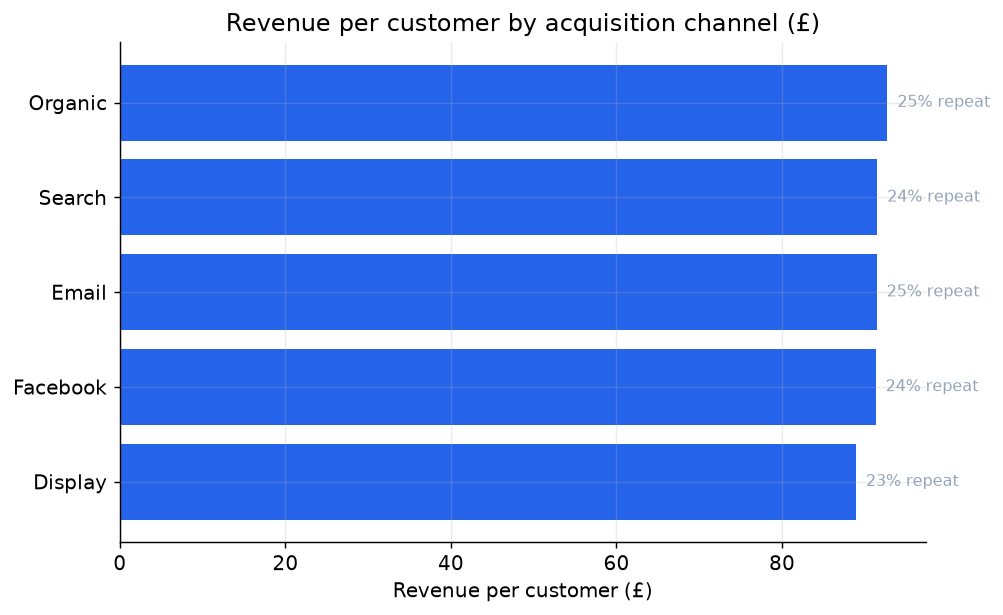
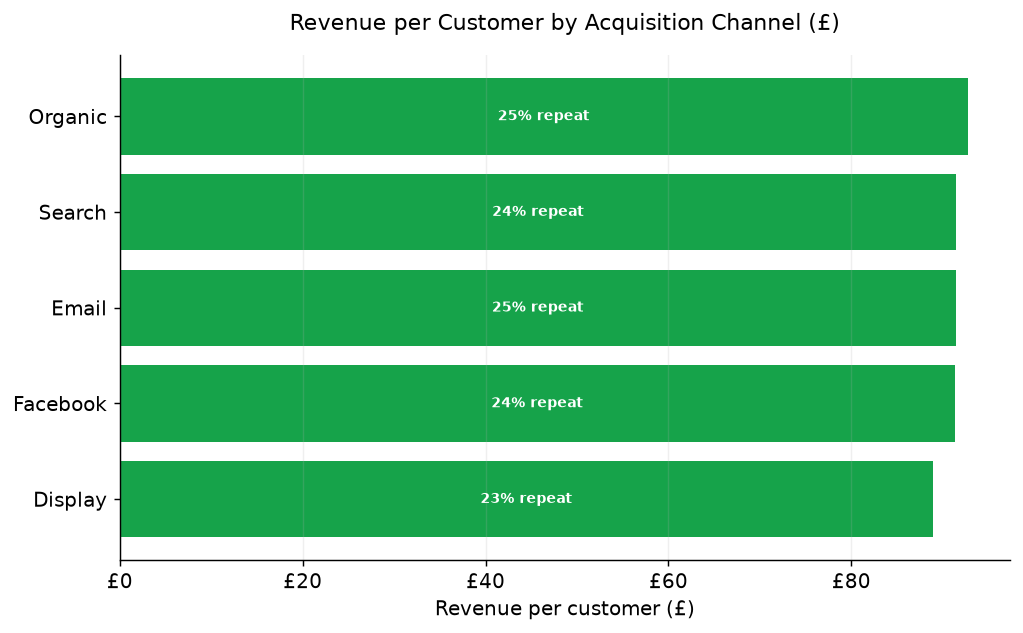
update README with AI disclaimer, fix charts: dual bar, green teal theme, no floating labels

diff --git a/notebooks/generate_insights.py b/notebooks/generate_insights.py
@@ -13,6 +13,7 @@ Usage:
 import argparse
 from pathlib import Path
 
+import numpy as np
 import pandas as pd
 import matplotlib.pyplot as plt
 from google.cloud import bigquery
@@ -20,7 +21,12 @@ from google.cloud import bigquery
 IMAGES_DIR = Path(__file__).resolve().parent.parent / "images"
 IMAGES_DIR.mkdir(exist_ok=True)
 
-# A clean, consistent look across the three charts.
+# Consistent green and teal palette across all charts.
+GREEN = "#16A34A"   # gross margin bars
+TEAL  = "#0D9488"   # revenue bars and line charts
+LABEL = "#FFFFFF"   # text on coloured bars
+MUTED = "#6B7280"   # secondary annotation text
+
 plt.rcParams.update({
     "figure.dpi": 130,
     "savefig.bbox": "tight",
@@ -28,10 +34,9 @@ plt.rcParams.update({
     "axes.spines.top": False,
     "axes.spines.right": False,
     "axes.grid": True,
-    "grid.alpha": 0.25,
+    "grid.alpha": 0.2,
+    "axes.grid.axis": "x",
 })
-ACCENT = "#2563eb"
-MUTED = "#94a3b8"
 
 
 def load(client: bigquery.Client, dataset: str, table: str) -> pd.DataFrame:
@@ -39,13 +44,70 @@ def load(client: bigquery.Client, dataset: str, table: str) -> pd.DataFrame:
 
 
 def chart_category_margin(df: pd.DataFrame) -> None:
-    top = df.sort_values("gross_margin", ascending=False).head(10).iloc[::-1]
-    fig, ax = plt.subplots(figsize=(8, 5))
-    ax.barh(top["category"], top["gross_margin"], color=ACCENT)
-    ax.set_title("Top 10 categories by gross margin (£)")
-    ax.set_xlabel("Gross margin (£)")
-    for y, (m, pct) in enumerate(zip(top["gross_margin"], top["gross_margin_pct"])):
-        ax.text(m, y, f"  {pct:.0%}", va="center", fontsize=9, color=MUTED)
+    """
+    Clustered horizontal bar chart: gross margin (green) and revenue (teal)
+    side by side for the top 10 categories by gross margin value.
+    Margin percentage is shown as a label inside the green bar so it
+    never floats outside the chart area.
+    """
+    # Aggregate across departments (Men/Women) so each category appears once.
+    # Recalculate gross_margin_pct from the combined totals.
+    df_agg = (
+        df.groupby("category", as_index=False)
+        .agg(gross_revenue=("gross_revenue", "sum"), gross_margin=("gross_margin", "sum"))
+    )
+    df_agg["gross_margin_pct"] = df_agg["gross_margin"] / df_agg["gross_revenue"]
+
+    top = (
+        df_agg.sort_values("gross_margin", ascending=False)
+        .head(10)
+        .iloc[::-1]
+        .reset_index(drop=True)
+    )
+
+    bar_h = 0.38
+    y = np.arange(len(top))
+
+    fig, ax = plt.subplots(figsize=(9, 6))
+
+    # Revenue bars (teal, upper slot)
+    ax.barh(
+        y + bar_h / 2,
+        top["gross_revenue"],
+        height=bar_h,
+        color=TEAL,
+        label="Gross revenue (£)",
+    )
+
+    # Gross margin bars (green, lower slot)
+    gm_bars = ax.barh(
+        y - bar_h / 2,
+        top["gross_margin"],
+        height=bar_h,
+        color=GREEN,
+        label="Gross margin (£)",
+    )
+
+    # Margin percentage label placed at the midpoint of each green bar.
+    # This avoids the floating label issue caused by positioning at bar end.
+    for bar, pct in zip(gm_bars, top["gross_margin_pct"]):
+        w  = bar.get_width()
+        cx = w * 0.5
+        cy = bar.get_y() + bar.get_height() / 2
+        ax.text(
+            cx, cy, f"{pct:.0%}",
+            ha="center", va="center",
+            fontsize=8, color=LABEL, fontweight="bold",
+        )
+
+    ax.set_yticks(y)
+    ax.set_yticklabels(top["category"], fontsize=10)
+    ax.set_xlabel("Value (£)")
+    ax.set_title("Top 10 Categories by Gross Margin (£)", pad=14, fontsize=12)
+    ax.legend(loc="lower right", framealpha=0.9)
+    ax.xaxis.set_major_formatter(plt.FuncFormatter(lambda v, _: f"£{v:,.0f}"))
+
+    fig.tight_layout()
     fig.savefig(IMAGES_DIR / "category_margin.png")
     plt.close(fig)
 
@@ -53,11 +115,17 @@ def chart_category_margin(df: pd.DataFrame) -> None:
 def chart_retention(df: pd.DataFrame) -> None:
     df = df.sort_values("cohort_month")
     fig, ax = plt.subplots(figsize=(9, 5))
-    ax.plot(df["cohort_month"], df["repeat_purchase_rate"], color=ACCENT, marker="o", ms=3)
-    ax.set_title("Repeat-purchase rate by acquisition cohort")
+    ax.plot(
+        df["cohort_month"], df["repeat_purchase_rate"],
+        color=TEAL, marker="o", ms=4, linewidth=2,
+    )
+    ax.fill_between(df["cohort_month"], df["repeat_purchase_rate"],
+                    alpha=0.1, color=TEAL)
+    ax.set_title("Repeat Purchase Rate by Acquisition Cohort", pad=14, fontsize=12)
     ax.set_ylabel("Share of customers who ordered again")
     ax.yaxis.set_major_formatter(plt.FuncFormatter(lambda v, _: f"{v:.0%}"))
     fig.autofmt_xdate()
+    fig.tight_layout()
     fig.savefig(IMAGES_DIR / "retention_cohorts.png")
     plt.close(fig)
 
@@ -65,32 +133,46 @@ def chart_retention(df: pd.DataFrame) -> None:
 def chart_channel(df: pd.DataFrame) -> None:
     df = df.sort_values("revenue_per_customer", ascending=True)
     fig, ax = plt.subplots(figsize=(8, 5))
-    ax.barh(df["traffic_source"], df["revenue_per_customer"], color=ACCENT)
-    ax.set_title("Revenue per customer by acquisition channel (£)")
+    bars = ax.barh(df["traffic_source"], df["revenue_per_customer"], color=GREEN)
+    ax.set_title("Revenue per Customer by Acquisition Channel (£)", pad=14, fontsize=12)
     ax.set_xlabel("Revenue per customer (£)")
-    for y, (rev, rep) in enumerate(zip(df["revenue_per_customer"], df["repeat_purchase_rate"])):
-        ax.text(rev, y, f"  {rep:.0%} repeat", va="center", fontsize=9, color=MUTED)
+    ax.xaxis.set_major_formatter(plt.FuncFormatter(lambda v, _: f"£{v:,.0f}"))
+
+    # Repeat purchase rate label inside each bar
+    for bar, rep in zip(bars, df["repeat_purchase_rate"]):
+        w  = bar.get_width()
+        cx = w * 0.5
+        cy = bar.get_y() + bar.get_height() / 2
+        ax.text(
+            cx, cy, f"{rep:.0%} repeat",
+            ha="center", va="center",
+            fontsize=8, color=LABEL, fontweight="bold",
+        )
+
+    fig.tight_layout()
     fig.savefig(IMAGES_DIR / "channel_value.png")
     plt.close(fig)
 
 
-def headline_figures(cat: pd.DataFrame, ret: pd.DataFrame, chan: pd.DataFrame) -> None:
-    overall_repeat = (ret["repeat_customers"].sum() / ret["new_customers"].sum())
-    best_margin = cat.sort_values("gross_margin_pct", ascending=False).iloc[0]
-    worst_margin = cat.sort_values("gross_margin_pct").iloc[0]
-    worst_returns = cat.sort_values("return_rate", ascending=False).iloc[0]
-    best_channel = chan.sort_values("revenue_per_customer", ascending=False).iloc[0]
+def headline_figures(
+    cat: pd.DataFrame, ret: pd.DataFrame, chan: pd.DataFrame
+) -> None:
+    overall_repeat = ret["repeat_customers"].sum() / ret["new_customers"].sum()
+    best_margin    = cat.sort_values("gross_margin_pct", ascending=False).iloc[0]
+    worst_margin   = cat.sort_values("gross_margin_pct").iloc[0]
+    worst_returns  = cat.sort_values("return_rate", ascending=False).iloc[0]
+    best_channel   = chan.sort_values("revenue_per_customer", ascending=False).iloc[0]
 
     print("\n" + "=" * 60)
     print("HEADLINE FIGURES  (paste these into the README)")
     print("=" * 60)
-    print(f"Overall repeat-purchase rate : {overall_repeat:.1%}")
-    print(f"Highest-margin category      : {best_margin['category']} "
-          f"({best_margin['gross_margin_pct']:.0%})")
-    print(f"Lowest-margin category       : {worst_margin['category']} "
-          f"({worst_margin['gross_margin_pct']:.0%})")
+    print(f"Overall repeat purchase rate : {overall_repeat:.1%}")
+    print(f"Highest margin category      : {best_margin['category']} "
+          f"({best_margin['gross_margin_pct']:.0%} margin)")
+    print(f"Lowest margin category       : {worst_margin['category']} "
+          f"({worst_margin['gross_margin_pct']:.0%} margin)")
     print(f"Highest return rate          : {worst_returns['category']} "
-          f"({worst_returns['return_rate']:.0%})")
+          f"({worst_returns['return_rate']:.0%} of items returned)")
     print(f"Best channel by rev/customer : {best_channel['traffic_source']} "
           f"(£{best_channel['revenue_per_customer']:.0f}, "
           f"{best_channel['repeat_purchase_rate']:.0%} repeat)")
@@ -104,15 +186,15 @@ def main() -> None:
     args = p.parse_args()
 
     client = bigquery.Client(project=args.project)
-    cat = load(client, args.dataset, "mart_category_performance")
-    ret = load(client, args.dataset, "mart_customer_retention")
+    cat  = load(client, args.dataset, "mart_category_performance")
+    ret  = load(client, args.dataset, "mart_customer_retention")
     chan = load(client, args.dataset, "mart_channel_performance")
 
     chart_category_margin(cat)
     chart_retention(ret)
     chart_channel(chan)
     headline_figures(cat, ret, chan)
-    print(f"Charts written to {IMAGES_DIR}")
+    print(f"Charts saved to {IMAGES_DIR}")
 
 
 if __name__ == "__main__":

diff --git a/README.md b/README.md
@@ -1,17 +1,18 @@
-# E-commerce Analytics: from raw transactions to commercial decisions
+> ⚠️ **AI transparency:** I used Claude as a pair analyst throughout this project. Claude helped design the analytics layer, sense-check the SQL, and refine the write-up. The data modelling decisions, business questions, and interpretation of findings are my own.
 
-Most "dbt project" repos stop at building a clean star schema. This one goes a
-step further and uses that model to answer three questions a commercial or
-product team would actually ask:
+---
 
-1. **Which categories make money** once cost of goods and returns are taken out — not just which ones sell?
+# Ecommerce Analytics: from raw transactions to commercial decisions
+
+Most dbt project repos stop at building a clean star schema. This one goes further and uses that model to answer three questions a commercial or product team would actually ask:
+
+1. **Which categories make money** once cost of goods and returns are taken out, not just which ones sell?
 2. **Do we keep the customers we win?** What share come back for a second order?
 3. **Which acquisition channel** brings the most valuable, stickiest customers?
 
-The data is modelled with **dbt Core** on **BigQuery** (star schema, tested,
-documented), then an analytics layer turns it into the findings and charts below.
+The data is modelled with **dbt Core** on **BigQuery** (star schema, tested, documented), then an analytics layer turns it into the findings and charts below.
 
-> **Dataset:** [`thelook_ecommerce`](https://console.cloud.google.com/marketplace/product/bigquery-public-data/thelook-ecommerce) — a Google public BigQuery dataset simulating an online retailer. 181k order items across ~100k customers.
+> **Dataset:** [`thelook_ecommerce`](https://console.cloud.google.com/marketplace/product/bigquery-public-data/thelook-ecommerce), a Google public BigQuery dataset simulating an online retailer. 181k order items across ~100k customers.
 
 ---
 
@@ -19,60 +20,49 @@ documented), then an analytics layer turns it into the findings and charts below
 
 > _Figures below are produced by [`notebooks/generate_insights.py`](notebooks/generate_insights.py), which reads the marts straight from BigQuery. Charts are regenerated on every run._
 >
-> ⚠️ _`thelook_ecommerce` is a **synthetic** dataset — prices and costs are generated, not real market data. The figures below illustrate the **method** (how I'd surface these signals on real data), not commercial reality._
+> ⚠️ _`thelook_ecommerce` is a **synthetic** dataset. Prices and costs are generated, not real market data. The figures below illustrate the **method** (how I would surface these signals on real data), not commercial reality._
 
-### 1. Category profitability ≠ category revenue
+### 1. Category profitability is not the same as category revenue
 
-Ranking categories by **gross margin (£)** — revenue minus cost of goods —
-rather than revenue changes the picture: the chart shows which categories clear
-a healthy margin and which barely break even. Return rate is tracked alongside
-as a second risk signal — note it is reported per category, not yet deducted
-from the margin figure.
+Ranking categories by **gross margin (£)** (revenue minus cost of goods) rather than revenue changes the picture entirely. The chart shows which categories clear a healthy margin and which barely break even. Return rate is tracked alongside as a second risk signal, though it is reported per category rather than deducted from the margin figure.
+
+Note: bars are sorted by absolute gross margin in £ rather than margin percentage. A shorter bar can carry a higher percentage if that category has lower total sales volume.
 
 ![Category gross margin](images/category_margin.png)
 
-- Highest-margin category: **`Blazers & Jackets`** (`62%` margin)
-- Lowest-margin category: **`Clothing Sets`** (`38%` margin)
+- Highest margin category: **`Blazers & Jackets`** (`62%` margin)
+- Lowest margin category: **`Clothing Sets`** (`38%` margin)
 - Highest return rate: **`Clothing Sets`** (`15%` of items returned)
 
-**So what:** a revenue-led view would push spend toward the top-selling
-categories; the margin-and-returns view flags where that revenue is actually
-profitable and where returns are quietly eroding it.
+**So what:** a revenue view would push spend toward the top-selling categories. The margin and returns view flags where that revenue is actually profitable, and where returns are quietly eroding it.
 
 ### 2. Retention is the real story
 
-Grouping customers by the month of their first order and measuring how many
-return gives the **repeat-purchase rate** — the single clearest signal of
-whether the business is building a customer base or just renting one.
+Grouping customers by the month of their first order and measuring how many return gives the **repeat purchase rate**, the single clearest signal of whether the business is building a customer base or just renting one.
 
-![Repeat-purchase rate by cohort](images/retention_cohorts.png)
+![Repeat purchase rate by cohort](images/retention_cohorts.png)
 
-- Overall repeat-purchase rate: **`33.5%`**
+- Overall repeat purchase rate: **`33.5%`**
 
-> _Caveat: "repeat" here means 2+ orders **ever**, so the most recent cohorts have had less time to place a second order and will read lower for that reason alone — the dip toward recent months is partly an observation-window effect, not pure retention decay. A fixed window (e.g. repeat within 90 days of first order) is the natural next iteration._
+> _Caveat: "repeat" here means two or more orders ever, so the most recent cohorts have had less time to place a second order and will read lower for that reason alone. The dip toward recent months is partly an observation window effect, not pure retention decay. A fixed window (such as repeat within 90 days of first order) is the natural next iteration._
 
-**So what:** acquisition is only half the picture. If repeat rate is low and
-flat across cohorts, the lever isn't more sign-ups — it's getting existing
-customers to a second order.
+**So what:** acquisition is only half the picture. If repeat rate is low and flat across cohorts, the lever is not more new customers. It is getting existing customers to a second order.
 
 ### 3. Channels are not equal
 
-Channels are easy to judge on sign-up volume; the more useful cut is **revenue
-per customer** and **repeat rate** by channel.
+Channels are easy to judge on signup volume. The more useful cut is **revenue per customer** and **repeat rate** by channel.
 
 ![Revenue per customer by channel](images/channel_value.png)
 
 - Best channel by revenue per customer: **`Organic`** (£`93`, `25%` repeat)
 
-**So what:** the channel that brings the most customers isn't necessarily the
-one that brings the most *value*. This is where budget should follow.
+**So what:** the channel that brings the most customers is not necessarily the one that brings the most value. This is where budget should follow.
 
 ---
 
 ## The data model
 
-A standard three-layer dbt architecture — sources → staging (views) → marts
-(tables) — with an added analytics layer for the questions above.
+A standard three-layer dbt architecture (sources, staging views, marts tables) with an added analytics layer for the questions above.
 
 ```
 bigquery-public-data.thelook_ecommerce   (sources)
@@ -91,9 +81,9 @@ bigquery-public-data.thelook_ecommerce   (sources)
 
 | Layer | Models | Materialised as |
 |---|---|---|
-| Staging | 4 | Views — clean and rename, no business logic |
-| Marts (dimensional) | 1 fact + 3 dims | Tables — the star schema |
-| Marts (analytics) | 3 | Tables — the question-answering layer |
+| Staging | 4 | Views: clean and rename, no business logic |
+| Marts (dimensional) | 1 fact + 3 dims | Tables: the star schema |
+| Marts (analytics) | 3 | Tables: the question-answering layer |
 
 ---
 
@@ -101,23 +91,14 @@ bigquery-public-data.thelook_ecommerce   (sources)
 
 Testing goes beyond "keys are unique". The suite covers:
 
-- **Referential integrity** — every `fct_order_items` row must resolve to a real order, user, and product (`relationships` tests)
-- **Accepted values** — order `status` can only be one of the five known states
-- **Range checks** — every rate (margin %, return rate, repeat rate) must fall within sensible bounds, so a bad join can't silently produce a nonsensical chart ([`tests/assert_rates_within_bounds.sql`](tests/assert_rates_within_bounds.sql))
-- **Uniqueness / not-null** on every primary and foreign key
+- **Referential integrity:** every `fct_order_items` row must resolve to a real order, user, and product (`relationships` tests)
+- **Accepted values:** order `status` can only be one of the five known states
+- **Range checks:** every rate (margin %, return rate, repeat rate) must fall within sensible bounds, so a bad join cannot silently produce a nonsensical chart ([`tests/assert_rates_within_bounds.sql`](tests/assert_rates_within_bounds.sql))
+- **Uniqueness and not null** on every primary and foreign key
 
 ```
 dbt test  →  all passing
 ```
-
----
-
-## How this was built (AI transparency)
-
-I used Claude as a pair-analyst on the analytics layer — sounding out which
-questions were worth asking of this data, sense-checking the margin and
-retention SQL, and tightening this write-up. The dimensional model, the
-analysis design, and the interpretation of the findings are mine.
 
 ---
 
@@ -145,8 +126,8 @@ cd notebooks
 pip install -r requirements.txt
 python generate_insights.py --project YOUR_GCP_PROJECT --dataset dbt_analytics
 ```
-This writes the three charts into `images/` and prints the headline figures to
-paste into the Findings section above.
+
+This writes the three charts into `images/` and prints the headline figures to paste into the Findings section above.
 
 ### Configure `~/.dbt/profiles.yml`
 ```yaml